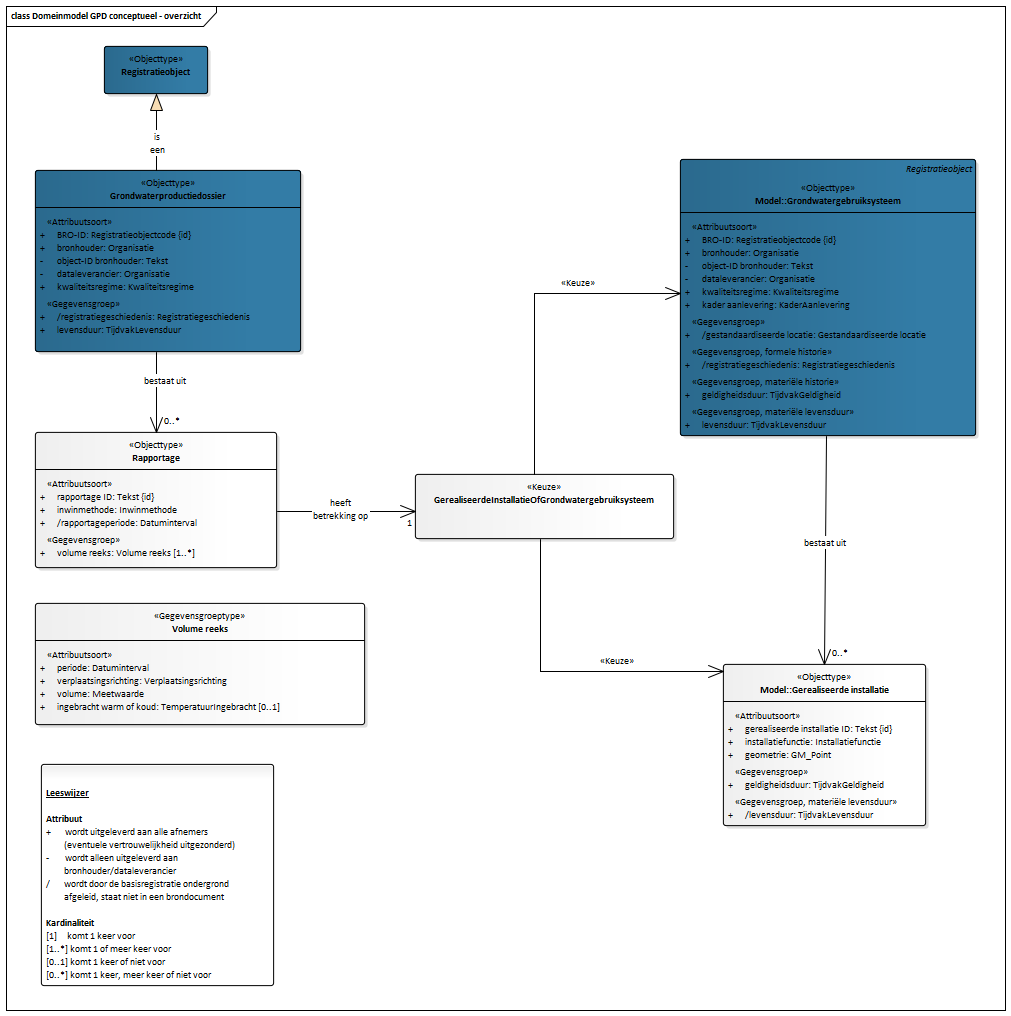
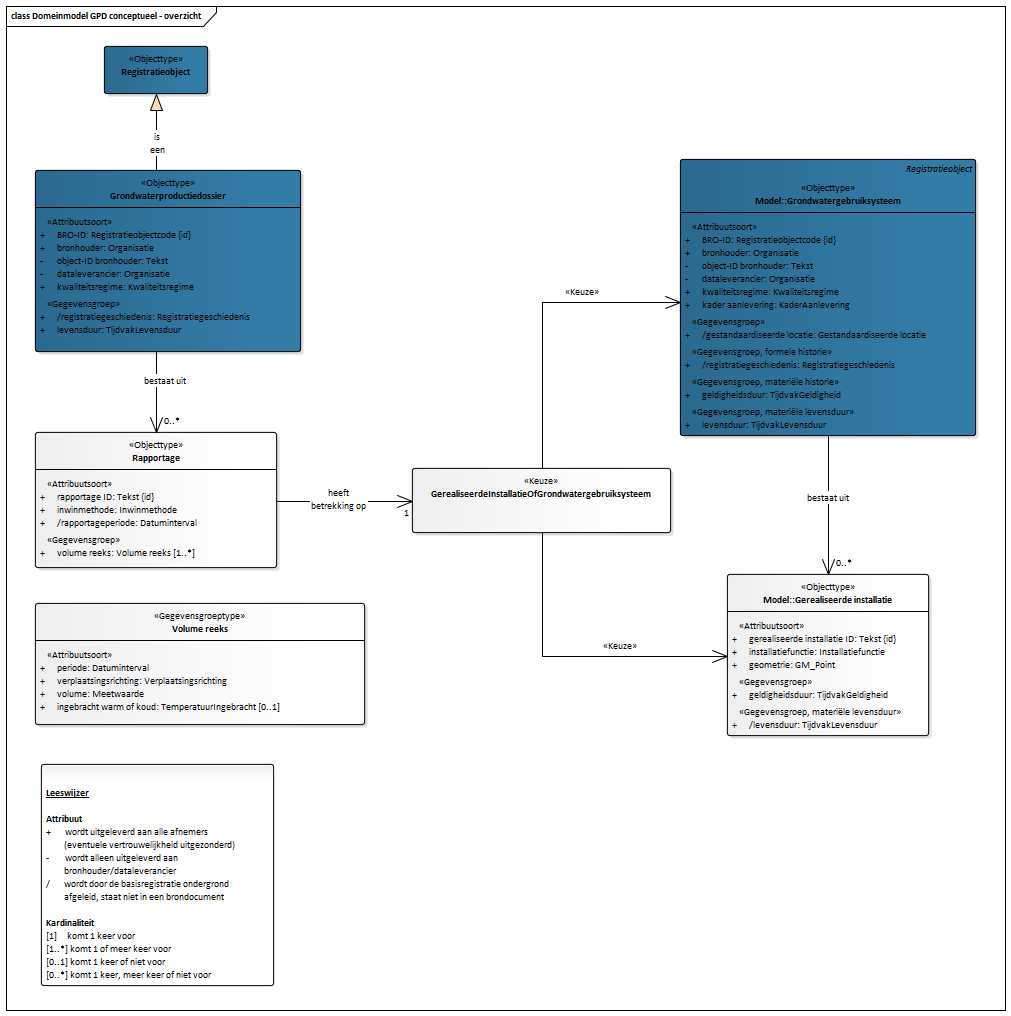
Conceptualmodel-GrondwaterproductiedossierGPDconceptueel-0.98-3-20210721-20210923-155602

diff --git a/data/GPD-cat.msword.html b/data/GPD-cat.msword.html
@@ -15,7 +15,7 @@
    <body>
       <p>Conceptual model/Grondwaterproductiedossier (GPD) conceptueel/20210721</p>
       <p>Imvertor: 1.65.1</p>
-      <p>Model release: Conceptualmodel-GrondwaterproductiedossierGPDconceptueel-0.98-3-20210721-20210922-140932</p>
+      <p>Model release: Conceptualmodel-GrondwaterproductiedossierGPDconceptueel-0.98-3-20210721-20210923-155602</p>
       <hr>
       <section>
          <h1>Artikel 1 Definitie van registratieobject, entiteiten en attributen</h1>
@@ -63,7 +63,7 @@
          <section>
             <h2>Het domeinmodel</h2>
             <section id="">
-               <div class="imageinfo overview"><img src="Images/EAID_D9578C60_D3C8_4660_9BC8_07F4862E13E4.png" usemap="#imagemap-EAID_D9578C60_D3C8_4660_9BC8_07F4862E13E4" alt="Diagram &#xA;                        --Definitie--&#xA;De rapportage heeft betrekking op de keuze tussen Gerealiseerde installatie of Grondwatergebruiksysteem.&#xA;                     "><map name="imagemap-EAID_D9578C60_D3C8_4660_9BC8_07F4862E13E4"><area shape="rect" alt="GerealiseerdeInstallatieOfGrondwatergebruiksysteem" coords="415,474,674,539" href="#graph_EAID_6EB65D4E_EA8A_4a77_9EE9_1464F9E3AEB8"><area shape="rect" alt="Volume reeks" coords="35,603,365,725" href="#graph_EAID_79699DAA_2A3D_4c61_867C_72E0F7E8FB60"><area shape="rect" alt="Rapportage" coords="35,432,277,568" href="#graph_EAID_BFF344A1_AAAC_49e4_817E_130BD5AB501E"><area shape="rect" alt="Grondwaterproductiedossier" coords="35,170,301,352" href="#graph_EAID_A883D376_9CED_4d28_B962_894E6688DC88"><area shape="rect" alt="Registratieobject" coords="104,46,208,94" href="#graph_EAID_1A9F05B6_CB32_4521_93D6_6062B390DB3E"></map><p><b>Domeinmodel GPD conceptueel</b>
+               <div class="imageinfo overview"><img src="Images/EAID_D9578C60_D3C8_4660_9BC8_07F4862E13E4.png" usemap="#imagemap-EAID_D9578C60_D3C8_4660_9BC8_07F4862E13E4" alt="Diagram &#xA;                        --Definitie--&#xA;De rapportage heeft betrekking op de keuze tussen Gerealiseerde installatie of Grondwatergebruiksysteem.&#xA;                     "><map name="imagemap-EAID_D9578C60_D3C8_4660_9BC8_07F4862E13E4"><area shape="rect" alt="GerealiseerdeInstallatieOfGrondwatergebruiksysteem" coords="412,468,671,533" href="#graph_EAID_6EB65D4E_EA8A_4a77_9EE9_1464F9E3AEB8"><area shape="rect" alt="Volume reeks" coords="35,603,365,725" href="#graph_EAID_79699DAA_2A3D_4c61_867C_72E0F7E8FB60"><area shape="rect" alt="Rapportage" coords="35,432,277,568" href="#graph_EAID_BFF344A1_AAAC_49e4_817E_130BD5AB501E"><area shape="rect" alt="Grondwaterproductiedossier" coords="35,170,301,352" href="#graph_EAID_A883D376_9CED_4d28_B962_894E6688DC88"><area shape="rect" alt="Registratieobject" coords="104,46,208,94" href="#graph_EAID_1A9F05B6_CB32_4521_93D6_6062B390DB3E"></map><p><b>Domeinmodel GPD conceptueel</b>
                      
                      <p>--Definitie--
                         De rapportage heeft betrekking op de keuze tussen Gerealiseerde installatie of Grondwatergebruiksysteem.</p>
@@ -353,7 +353,7 @@
                            </tr>
                         </tbody>
                      </table>
-                     </section><a class="anchor" id="detail_d18810e1523"></a><section id="detail_d18810e1523">
+                     </section><a class="anchor" id="detail_d18814e1523"></a><section id="detail_d18814e1523">
                      <h4>  registratiegeschiedenis</h4>
                      <table style="width: 100%;">
                         <colgroup style="width: 30%;"></colgroup>
@@ -394,7 +394,7 @@
                            </tr>
                         </tbody>
                      </table>
-                  </section><a class="anchor" id="detail_d18810e1732"></a><section id="detail_d18810e1732">
+                  </section><a class="anchor" id="detail_d18814e1732"></a><section id="detail_d18814e1732">
                      <h4>  levensduur</h4>
                      <table style="width: 100%;">
                         <colgroup style="width: 30%;"></colgroup>
@@ -655,7 +655,7 @@
                            </tr>
                         </tbody>
                      </table>
-                     </section><a class="anchor" id="detail_d18810e2803"></a><section id="detail_d18810e2803">
+                     </section><a class="anchor" id="detail_d18814e2803"></a><section id="detail_d18814e2803">
                      <h4>  volume reeks</h4>
                      <table style="width: 100%;">
                         <colgroup style="width: 30%;"></colgroup>

diff --git a/data/GPD-cat.respec.html b/data/GPD-cat.respec.html
@@ -41,7 +41,7 @@
       </section>
    <section id="">
       <h2>Het domeinmodel   </h2>
-      <div class="imageinfo overview"><img src="data/Images/EAID_D9578C60_D3C8_4660_9BC8_07F4862E13E4.png" usemap="#imagemap-EAID_D9578C60_D3C8_4660_9BC8_07F4862E13E4" alt="Diagram &#xA;                        --Definitie--&#xA;De rapportage heeft betrekking op de keuze tussen Gerealiseerde installatie of Grondwatergebruiksysteem.&#xA;                     "><map name="imagemap-EAID_D9578C60_D3C8_4660_9BC8_07F4862E13E4"><area shape="rect" alt="GerealiseerdeInstallatieOfGrondwatergebruiksysteem" coords="415,474,674,539" href="#graph_EAID_6EB65D4E_EA8A_4a77_9EE9_1464F9E3AEB8"><area shape="rect" alt="Volume reeks" coords="35,603,365,725" href="#graph_EAID_79699DAA_2A3D_4c61_867C_72E0F7E8FB60"><area shape="rect" alt="Rapportage" coords="35,432,277,568" href="#graph_EAID_BFF344A1_AAAC_49e4_817E_130BD5AB501E"><area shape="rect" alt="Grondwaterproductiedossier" coords="35,170,301,352" href="#graph_EAID_A883D376_9CED_4d28_B962_894E6688DC88"><area shape="rect" alt="Registratieobject" coords="104,46,208,94" href="#graph_EAID_1A9F05B6_CB32_4521_93D6_6062B390DB3E"></map><p><b>Domeinmodel GPD conceptueel</b>
+      <div class="imageinfo overview"><img src="data/Images/EAID_D9578C60_D3C8_4660_9BC8_07F4862E13E4.png" usemap="#imagemap-EAID_D9578C60_D3C8_4660_9BC8_07F4862E13E4" alt="Diagram &#xA;                        --Definitie--&#xA;De rapportage heeft betrekking op de keuze tussen Gerealiseerde installatie of Grondwatergebruiksysteem.&#xA;                     "><map name="imagemap-EAID_D9578C60_D3C8_4660_9BC8_07F4862E13E4"><area shape="rect" alt="GerealiseerdeInstallatieOfGrondwatergebruiksysteem" coords="412,468,671,533" href="#graph_EAID_6EB65D4E_EA8A_4a77_9EE9_1464F9E3AEB8"><area shape="rect" alt="Volume reeks" coords="35,603,365,725" href="#graph_EAID_79699DAA_2A3D_4c61_867C_72E0F7E8FB60"><area shape="rect" alt="Rapportage" coords="35,432,277,568" href="#graph_EAID_BFF344A1_AAAC_49e4_817E_130BD5AB501E"><area shape="rect" alt="Grondwaterproductiedossier" coords="35,170,301,352" href="#graph_EAID_A883D376_9CED_4d28_B962_894E6688DC88"><area shape="rect" alt="Registratieobject" coords="104,46,208,94" href="#graph_EAID_1A9F05B6_CB32_4521_93D6_6062B390DB3E"></map><p><b>Domeinmodel GPD conceptueel</b>
             
             <p>--Definitie--
                De rapportage heeft betrekking op de keuze tussen Gerealiseerde installatie of Grondwatergebruiksysteem.</p>
@@ -329,7 +329,7 @@
                   </tr>
                </tbody>
             </table>
-            </section><a class="anchor" id="detail_d18810e1523"></a><section id="detail_d18810e1523">
+            </section><a class="anchor" id="detail_d18814e1523"></a><section id="detail_d18814e1523">
             <h4>  registratiegeschiedenis</h4>
             <table style="width: 100%;">
                <colgroup style="width: 30%;"></colgroup>
@@ -370,7 +370,7 @@
                   </tr>
                </tbody>
             </table>
-         </section><a class="anchor" id="detail_d18810e1732"></a><section id="detail_d18810e1732">
+         </section><a class="anchor" id="detail_d18814e1732"></a><section id="detail_d18814e1732">
             <h4>  levensduur</h4>
             <table style="width: 100%;">
                <colgroup style="width: 30%;"></colgroup>
@@ -631,7 +631,7 @@
                   </tr>
                </tbody>
             </table>
-            </section><a class="anchor" id="detail_d18810e2803"></a><section id="detail_d18810e2803">
+            </section><a class="anchor" id="detail_d18814e2803"></a><section id="detail_d18814e2803">
             <h4>  volume reeks</h4>
             <table style="width: 100%;">
                <colgroup style="width: 30%;"></colgroup>
